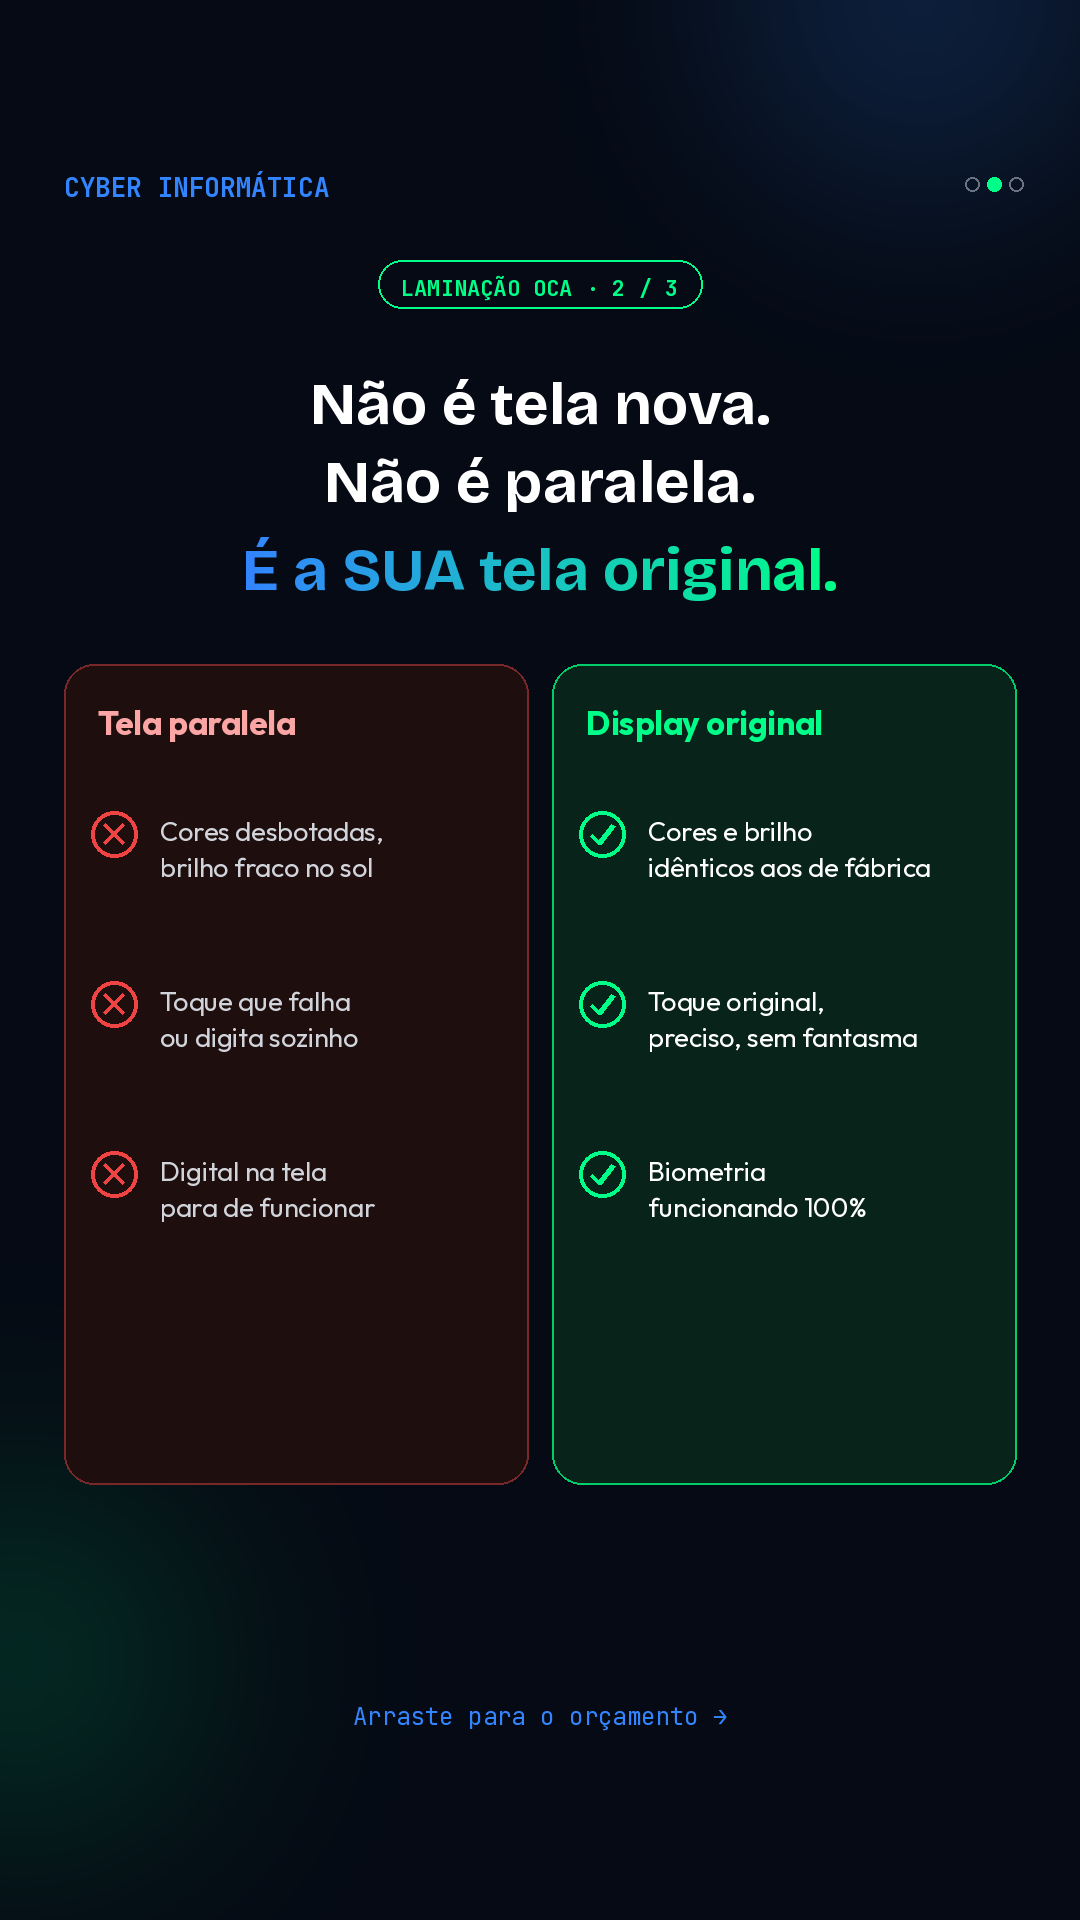
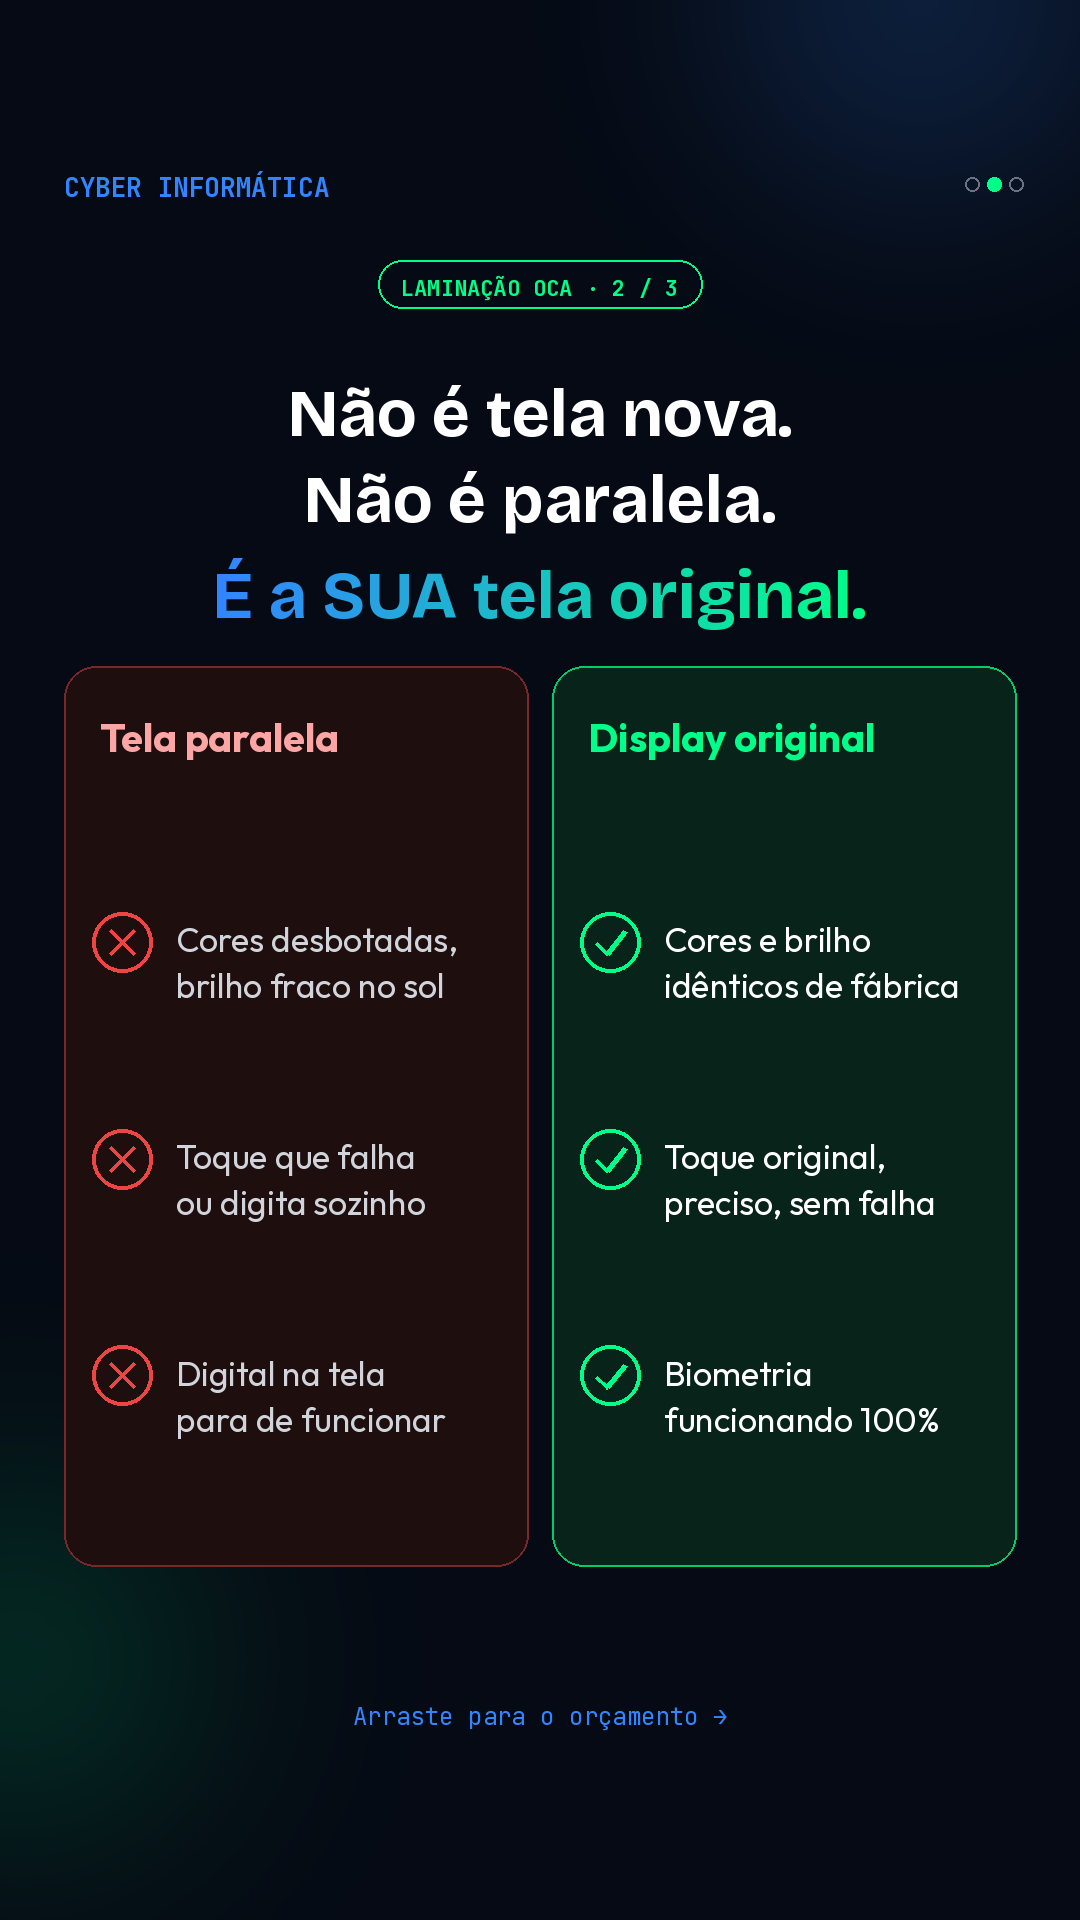
fix(campanha): melhora aproveitamento de espaço e legibilidade do slide 2 vertical
Itens dos cards comparativos agora se distribuem em fatias iguais da
altura do card (em vez de ficarem colados no topo com uma sobra vazia
embaixo) e usam fonte maior (título 40pt, item 34pt, ícone 30px) para
melhor legibilidade em tela cheia de celular. Ajusta duas linhas de
copy que estouravam a largura do card com a fonte maior.

diff --git a/assets/campanha-consumidor/gerar_stories_b2c.py b/assets/campanha-consumidor/gerar_stories_b2c.py
@@ -126,60 +126,72 @@ def make_slide_2():
     wordmark_header(draw, dot_index=1)
     y = eyebrow_badge(draw, W / 2, BADGE_Y, "LAMINAÇÃO OCA · 2 / 3")
 
-    f_h1 = font(F_DISPLAY_BOLD, 60)
-    y2 = y + 60
+    f_h1 = font(F_DISPLAY_BOLD, 66)
+    y2 = y + 66
     draw_centered(draw, W / 2, y2, "Não é tela nova.", f_h1, WHITE)
-    y2 += 78
+    y2 += 86
     draw_centered(draw, W / 2, y2, "Não é paralela.", f_h1, WHITE)
-    y2 += 88
+    y2 += 96
     gradient_text(img, (W / 2, y2), "É a SUA tela original.", f_h1, CYBER_BLUE_LIGHT, CIRCUIT_GREEN, anchor="ma")
     draw = ImageDraw.Draw(img)
 
-    col_y = y2 + 130
+    col_y = y2 + 110
     col_w = (W - 64 * 2 - 24) / 2
-    col_h = 820
+    col_h = 900
     left_x = 64
     right_x = 64 + col_w + 24
 
-    rounded_rect(draw, [left_x, col_y, left_x + col_w, col_y + col_h], radius=30,
+    # Título ocupa os primeiros ~190px do card; os 3 itens dividem o
+    # restante em fatias iguais (em vez de ficarem colados no topo com
+    # uma sobra vazia embaixo).
+    title_zone = 190
+    bottom_pad = 60
+    item_zone_h = col_h - title_zone - bottom_pad
+    slot_h = item_zone_h / 3
+    f_col_title = font(F_BODY_BOLD, 40)
+    f_item = font(F_BODY_REG, 34)
+    icon_r = 30
+    line_gap = 46
+
+    rounded_rect(draw, [left_x, col_y, left_x + col_w, col_y + col_h], radius=32,
                  fill=(30, 14, 14), outline=(120, 40, 40), width=2)
-    f_col_title = font(F_BODY_BOLD, 33)
-    draw.text((left_x + 34, col_y + 38), "Tela paralela", font=f_col_title, fill=(252, 165, 165), anchor="la")
+    draw.text((left_x + 36, col_y + 46), "Tela paralela", font=f_col_title, fill=(252, 165, 165), anchor="la")
 
     items_bad = [
         "Cores desbotadas,\nbrilho fraco no sol",
         "Toque que falha\nou digita sozinho",
         "Digital na tela\npara de funcionar",
     ]
-    iy = col_y + 150
-    f_item = font(F_BODY_REG, 27)
-    for it in items_bad:
-        cross_icon(draw, left_x + 50, iy + 20, 23, RED)
+    for i, it in enumerate(items_bad):
+        slot_top = col_y + title_zone + i * slot_h
+        item_h = icon_r * 2 if len(it.split("\n")) == 1 else line_gap * len(it.split("\n"))
+        iy = slot_top + (slot_h - item_h) / 2
+        cross_icon(draw, left_x + 58, iy + icon_r - 6, icon_r, RED)
         lines = it.split("\n")
         ly = iy
         for line in lines:
-            draw.text((left_x + 96, ly), line, font=f_item, fill=GRAY_300, anchor="la")
-            ly += 36
-        iy += 170
+            draw.text((left_x + 112, ly), line, font=f_item, fill=GRAY_300, anchor="la")
+            ly += line_gap
 
-    rounded_rect(draw, [right_x, col_y, right_x + col_w, col_y + col_h], radius=30,
+    rounded_rect(draw, [right_x, col_y, right_x + col_w, col_y + col_h], radius=32,
                  fill=(8, 36, 26), outline=CIRCUIT_GREEN_DARK, width=2)
-    draw.text((right_x + 34, col_y + 38), "Display original", font=f_col_title, fill=CIRCUIT_GREEN, anchor="la")
+    draw.text((right_x + 36, col_y + 46), "Display original", font=f_col_title, fill=CIRCUIT_GREEN, anchor="la")
 
     items_good = [
-        "Cores e brilho\nidênticos aos de fábrica",
-        "Toque original,\npreciso, sem fantasma",
+        "Cores e brilho\nidênticos de fábrica",
+        "Toque original,\npreciso, sem falha",
         "Biometria\nfuncionando 100%",
     ]
-    iy = col_y + 150
-    for it in items_good:
-        check_icon(draw, right_x + 50, iy + 20, 23, CIRCUIT_GREEN)
+    for i, it in enumerate(items_good):
+        slot_top = col_y + title_zone + i * slot_h
+        item_h = icon_r * 2 if len(it.split("\n")) == 1 else line_gap * len(it.split("\n"))
+        iy = slot_top + (slot_h - item_h) / 2
+        check_icon(draw, right_x + 58, iy + icon_r - 6, icon_r, CIRCUIT_GREEN)
         lines = it.split("\n")
         ly = iy
         for line in lines:
-            draw.text((right_x + 96, ly), line, font=f_item, fill=WHITE, anchor="la")
-            ly += 36
-        iy += 170
+            draw.text((right_x + 112, ly), line, font=f_item, fill=WHITE, anchor="la")
+            ly += line_gap
 
     f_hint = font(F_MONO_REG, 24)
     draw_centered(draw, W / 2, SAFE_BOTTOM, "Arraste para o orçamento →", f_hint, CYBER_BLUE_LIGHT)
